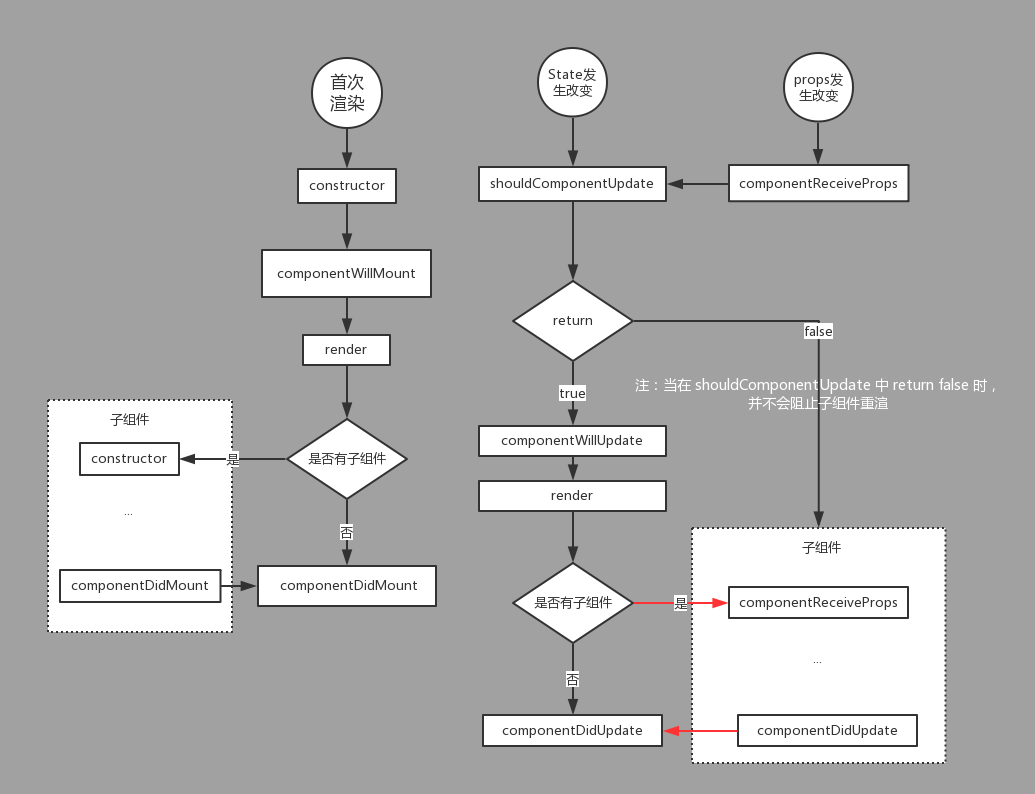
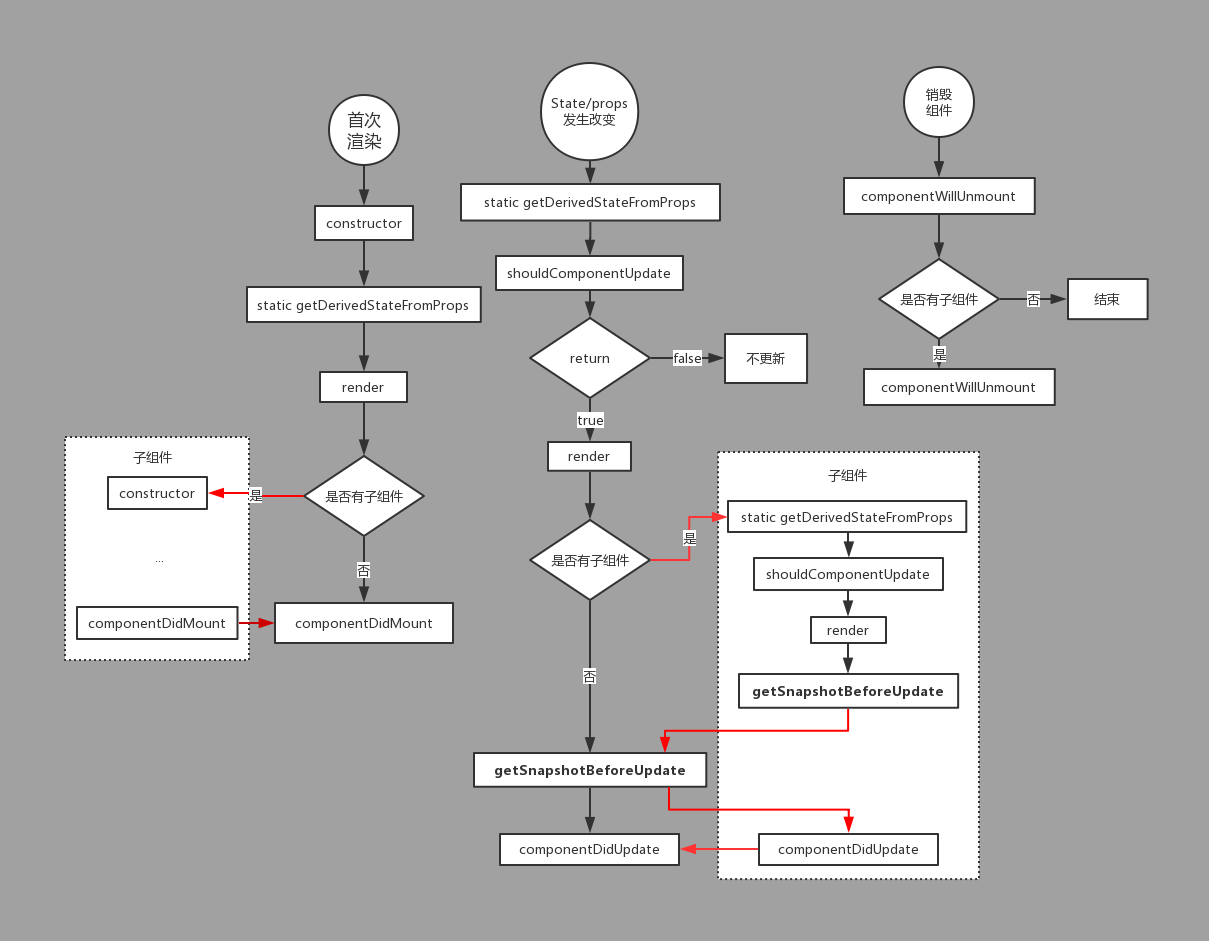
'upload'

Changed region(s): [[0.0309, 0.0605, 0.9585, 0.9673], [0.4638, 0.6952, 0.4947, 0.7254]]

diff --git a/6.react.md b/6.react.md
@@ -3,34 +3,43 @@
 #### 概念特点
 
 - react中某个组件的状态发生改变，react灰白该足迹已经所有后代组件重新渲染，但不会全部丢弃上一次的渲染结果，会通过diff去比较两次虚拟dom最后更新到真是的dom上。若组件树过大，diff开销也大，可通过shouldComponentUpdate优化。
-
 - React将整个DOM副本保存为虚拟DOM
 - 使用 Virtual DOM 更新真正的DOM，提高效率和速度
 - 使用 Virtual DOM 更新真正的DOM，提高效率和速度
 
+
+
+#### JSX
+
+- JavaScript的语法扩展，模板语言
+- 生成React元素
+- 组件名大写（让react识别是组件还是HTML元素）
+
 #### 组件生命周期v16.4
 
-- constructor
+- constructor()
 
-- componentWillMount
+- static getDerivedStateFromProps()
 
-- componentReceiveProps
+- shouldComponentUpdate()
 
-- shouldComponentUpdate
+- render()
 
-- componentWillUpdate
+- getSnapshotBeforeUpdate()
 
-- render
+- componentDidMount()
 
-- componentDidUpdate
+- componentDidUpdate()
 
-- conpomentDidMount
+- componentWillUnmount()
 
-- componentWillUnmount
+当渲染过程，生命周期，或子组件的构造函数中抛出错误时，会调用如下方法：
 
-- componentDidCatch
+- static getDerivedStateFromError()
 
-<img src="/images/react/生命周期.png" style="height:500px"/>
+- componentDidCatch()
+
+<img src="/images/react/生命周期.png" style="height:600px"/>
 
 
 
@@ -46,10 +55,10 @@
 
 - 函数/无状态/展示组件
 - 类组件
-- 受控组件
-- 非受控组件
-- 容器组件
-- 高阶组件
+- 受控组件 #表单元素依赖于状态，表单元素需要默认值实时映射到状态的时候，就是受控组件
+- 非受控组件 #非受控组件即不受状态的控制，获取数据就是相当于操作DOM
+- 容器组件 # 处理获取数据、订阅 redux 存储等的组件，包含展示组件和其他容器组件
+- 高阶组件 #高阶组件是将组件作为参数并生成另一个组件的组件
 
 #### PropTypes
 
@@ -68,7 +77,7 @@ this.setState((state, props) => {
 
 
 
-#### content
+#### context
 
 - 将props传递给组件树（中间组件不需要这些props）
 
